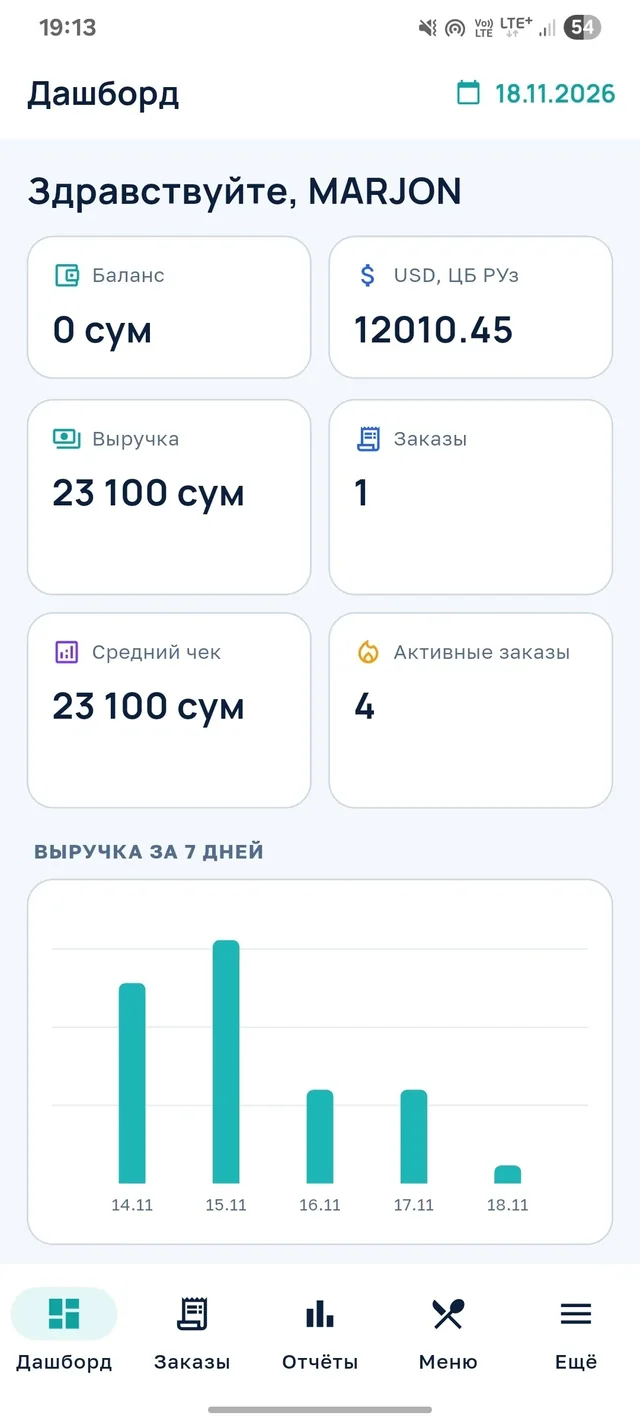
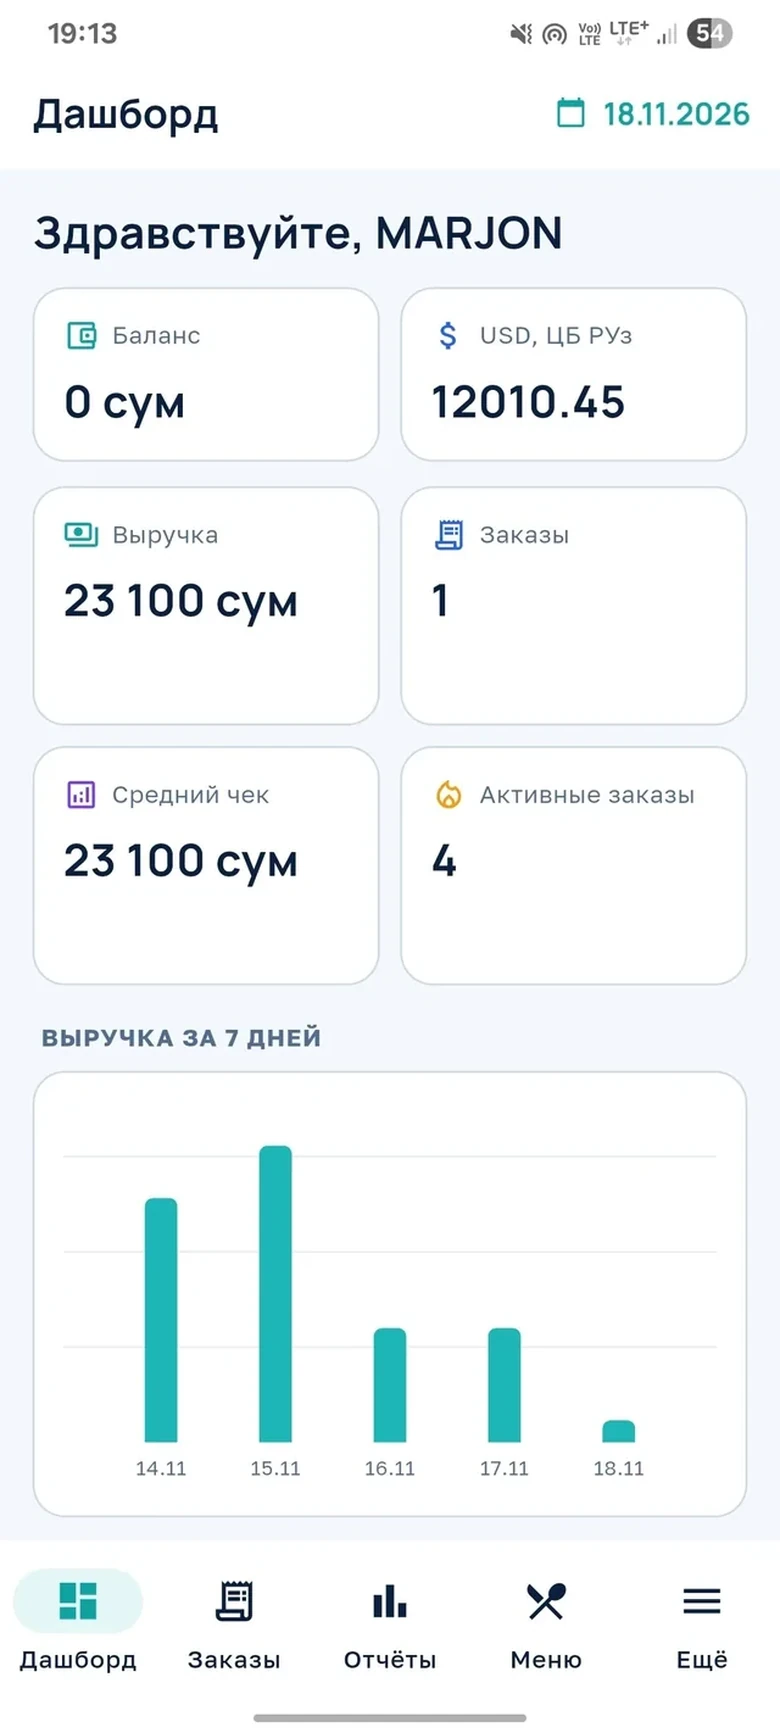
feat(landing-3d): follow-50 — модалка App Store: телефоны 1:1 по габаритам iPhone (70.6×146.6 мм, скругления ~17%/8%, кнопки по бокам), скриншоты заменены на 780px, фейковый Dynamic Island убран (в скриншоте уже есть настоящий) (v26)

diff --git a/landing-3d/src/style.css b/landing-3d/src/style.css
@@ -610,14 +610,13 @@ html.apps-open { overflow: hidden; }
 .iphone-wrap { display: grid; gap: 12px; justify-items: center; background: none; border: 0; padding: 0; cursor: pointer; -webkit-tap-highlight-color: transparent; opacity: .62; transform: translateY(6px) scale(.94); transition: opacity .45s var(--ease), transform .45s var(--ease); }
 .iphone-wrap:hover { opacity: .9; }
 .iphone-wrap.is-on { opacity: 1; transform: translateY(0) scale(1); }
-.iphone { position: relative; display: block; height: clamp(300px, 56svh, 510px); width: auto; aspect-ratio: 9 / 19.1; border-radius: 24% / 13.5%; background: linear-gradient(160deg, #3a3e46 0%, #14161a 22%, #05070a 50%, #101318 80%, #2c3037 100%); padding: 4.5%; box-shadow: inset 0 0 0 1.5px rgba(255, 255, 255, .14), inset 0 0 0 4px rgba(0, 0, 0, .55), 0 30px 60px rgba(0, 0, 0, .6), 0 4px 14px rgba(0, 0, 0, .5); transition: box-shadow .45s var(--ease); }
+.iphone { position: relative; display: block; height: clamp(300px, 58svh, 520px); width: auto; aspect-ratio: 70.6 / 146.6; border-radius: 17% / 8.2%; background: linear-gradient(155deg, #4a4e57 0%, #23262c 18%, #0b0d10 45%, #14171c 78%, #33373f 100%); padding: 4.2%; box-shadow: inset 0 0 0 1px rgba(255, 255, 255, .22), inset 0 0 0 3.5px rgba(10, 10, 12, .8), inset 0 0 22px rgba(0, 0, 0, .75), 0 30px 60px rgba(0, 0, 0, .6), 0 4px 14px rgba(0, 0, 0, .5); transition: box-shadow .45s var(--ease); }
 .iphone-wrap.is-on .iphone { box-shadow: inset 0 0 0 1.5px rgba(255, 255, 255, .2), inset 0 0 0 4px rgba(0, 0, 0, .55), 0 34px 70px rgba(0, 0, 0, .65), 0 0 0 1.5px rgba(63, 227, 196, .65), 0 0 44px rgba(63, 227, 196, .3); }
 /* кнопки на корпусе */
-.iphone::before { content: ""; position: absolute; left: -2.2%; top: 24%; width: 2.4%; height: 5.4%; border-radius: 3px; background: #2c3037; box-shadow: 0 14.5em 0 #2c3037, 0 -2.9em 0 #2c3037; }
-.iphone::after { content: ""; position: absolute; right: -2.2%; top: 30%; width: 2.4%; height: 8.4%; border-radius: 3px; background: #2c3037; }
-.iphone-screen { position: relative; display: block; width: 100%; height: 100%; border-radius: 19% / 11%; overflow: hidden; background: #f2f2f4; }
-.iphone-screen img { width: 100%; height: 100%; object-fit: cover; object-position: 50% 0%; display: block; user-select: none; }
-.iphone-island { position: absolute; top: 2.6%; left: 50%; transform: translateX(-50%); width: 34%; height: 4.6%; border-radius: 999px; background: #05070a; }
+.iphone::before { content: ""; position: absolute; left: -2%; top: 22.5%; width: 2%; height: 26%; border-radius: 3px; background: repeating-linear-gradient(180deg, #33373f 0 16%, transparent 16% 32%); }
+.iphone::after { content: ""; position: absolute; right: -2%; top: 29%; width: 2%; height: 7.6%; border-radius: 3px; background: #33373f; }
+.iphone-screen { position: relative; display: block; width: 100%; height: 100%; border-radius: 13.2% / 6.4%; overflow: hidden; background: #000; }
+.iphone-screen img { width: 100%; height: 100%; object-fit: cover; object-position: 50% 0%; display: block; user-select: none; -webkit-user-drag: none; }
 .iphone-cap { display: grid; gap: 2px; justify-items: center; text-align: center; max-width: 22ch; }
 .iphone-cap b { color: var(--paper); font-size: .92rem; font-weight: 600; letter-spacing: -.01em; }
 .iphone-cap small { color: var(--muted); font-size: .7rem; line-height: 1.32; }
@@ -642,7 +641,7 @@ html.apps-open { overflow: hidden; }
   .apps-box { border-radius: 24px; gap: 6px; }
   .apps-box { padding: 16px 10px 18px; gap: 6px; }
   .phone-stage { gap: 4px; padding-top: 2px; }
-  .iphone { height: clamp(230px, 43svh, 400px); }
+  .iphone { height: min(42svh, 355px); }
   .iphone-cap b { font-size: .84rem; }
   .iphone-cap small { font-size: .6rem; max-width: 19ch; }
   .iphone-cap b { font-size: .86rem; }
